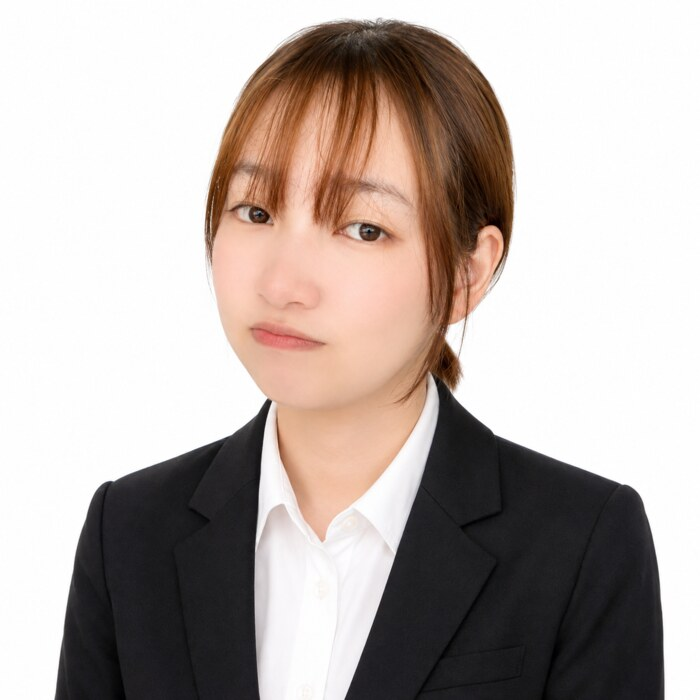
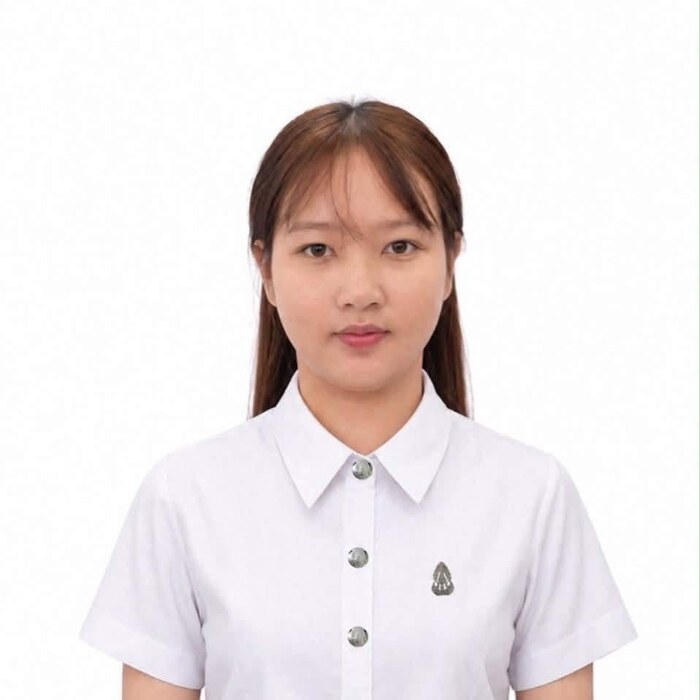
Add n8n project, project galleries, and new profile photo

diff --git a/index.html b/index.html
@@ -34,6 +34,7 @@
           <li><strong>Web Development:</strong> HTML, CSS, JavaScript, Django, REST API concepts, responsive interfaces</li>
           <li><strong>Systems / DevOps:</strong> Linux, Ubuntu, Docker, Docker Compose, Git, GitHub</li>
           <li><strong>IoT / Embedded Systems:</strong> Raspberry Pi, ESP32, ESP-IDF, GPIO, RS-485 sensors, CMake</li>
+          <li><strong>Automation / AI:</strong> n8n, OpenAI, Google Gemini, AI Agents, Webhooks, REST APIs</li>
           <li><strong>Other:</strong> Computer Networks, Troubleshooting and Technical Documentation</li>
           <li><strong>Areas of Interest:</strong> Python Development, Backend Engineering, Embedded Systems and IoT</li>
         </ul>
@@ -50,6 +51,7 @@
             <li>Produced detailed technical documentation with setup steps, code examples, and hardware test results.</li>
             <li>Used Git and GitHub to manage source code and maintain project history.</li>
             <li>Practiced web development, object-oriented programming, Linux, and computer networking.</li>
+            <li>Designed AI-assisted n8n workflows for social-commerce video production and publishing preparation.</li>
           </ul>
         </article>
 
@@ -57,7 +59,9 @@
 
       <section id="projects">
         <h2>Projects</h2>
-        <article><h3>Network-Enabled Temperature Monitoring System</h3><p class="badges"><a href="https://github.com/AnchisaPhetnoi/Temperature_Monitoring_Syste" target="_blank" rel="noreferrer"><img src="https://img.shields.io/badge/View_on_GitHub-blue?style=flat&amp;logo=github&amp;labelColor=grey" alt="View Temperature Monitoring System on GitHub"></a></p><p>An undergraduate thesis project for monitoring temperature through a network. The repository provides the project report, certificate, summary document, and system screenshots.</p><h4>Key Features</h4><ul><li>Designed for network-based temperature monitoring and remote visibility.</li><li>Includes complete supporting documentation and visual evidence of the system.</li><li>Connects embedded hardware, sensing, networking, and a monitoring interface.</li></ul><p><strong>Tools / Technologies:</strong> Embedded Systems, Temperature Sensors, Networking, Monitoring Dashboard</p></article>
+        <article><h3>AI Social Commerce Automation with n8n</h3><p class="badges"><a href="https://github.com/AnchisaPhetnoi/AnchisaPhetnoi.github.io/tree/main/n8n-social-commerce-automation" target="_blank" rel="noreferrer"><img src="https://img.shields.io/badge/View_Project_Files-blue?style=flat&amp;logo=github&amp;labelColor=grey" alt="View n8n automation project files on GitHub"></a></p><p>Designed an AI-assisted automation pipeline for social-commerce video production, combining Shopee product inputs, TikTok shopping content, image analysis, sales-script and prompt generation, asynchronous media APIs, and publishing preparation. The workflow can also support vertical AI storytelling formats such as short Chinese-style series.</p><ul><li>Built two n8n workflows with 92 nodes for scheduled and webhook-driven automation.</li><li>Integrated OpenAI, Google Gemini, REST APIs, JavaScript processing, and structured AI outputs.</li><li>Tracked multi-stage image and video jobs with Data Tables, status checks, waits, and conditional routing.</li><li>Published sanitized workflow copies without credentials or authentication data.</li></ul><p><strong>Tools / Technologies:</strong> n8n, OpenAI, Google Gemini, REST API, Webhooks, JavaScript, AI Agents, Social Commerce Automation</p></article>
+
+        <article><h3>Network-Enabled Temperature Monitoring System</h3><p class="badges"><a href="https://github.com/AnchisaPhetnoi/Temperature_Monitoring_Syste" target="_blank" rel="noreferrer"><img src="https://img.shields.io/badge/View_on_GitHub-blue?style=flat&amp;logo=github&amp;labelColor=grey" alt="View Temperature Monitoring System on GitHub"></a></p><p>An undergraduate thesis project for monitoring temperature through a network. The repository provides the project report, certificate, summary document, and system screenshots.</p><div class="project-gallery"><a href="https://raw.githubusercontent.com/AnchisaPhetnoi/Temperature_Monitoring_Syste/main/Screenshot%202026-09-02%20184132.png" target="_blank" rel="noreferrer"><img src="https://raw.githubusercontent.com/AnchisaPhetnoi/Temperature_Monitoring_Syste/main/Screenshot%202026-09-02%20184132.png" alt="Temperature monitoring system interface" loading="lazy"></a><a href="https://raw.githubusercontent.com/AnchisaPhetnoi/Temperature_Monitoring_Syste/main/Screenshot%202026-09-02%20185236.png" target="_blank" rel="noreferrer"><img src="https://raw.githubusercontent.com/AnchisaPhetnoi/Temperature_Monitoring_Syste/main/Screenshot%202026-09-02%20185236.png" alt="Temperature monitoring project results" loading="lazy"></a></div><h4>Key Features</h4><ul><li>Designed for network-based temperature monitoring and remote visibility.</li><li>Includes complete supporting documentation and visual evidence of the system.</li><li>Connects embedded hardware, sensing, networking, and a monitoring interface.</li></ul><p><strong>Tools / Technologies:</strong> Embedded Systems, Temperature Sensors, Networking, Monitoring Dashboard</p></article>
 
         <article><h3>Smart Pump and Temperature Dashboard</h3><p class="badges"><a href="https://github.com/AnchisaPhetnoi/Projat" target="_blank" rel="noreferrer"><img src="https://img.shields.io/badge/View_on_GitHub-blue?style=flat&amp;logo=github&amp;labelColor=grey" alt="View Smart Pump project on GitHub"></a></p><p>An IoT prototype combining temperature sensing, MQTT communication, a pump-control relay, and a browser dashboard.</p><ul><li>Reads temperature through a DS18B20 sensor and publishes readings through MQTT.</li><li>Controls a relay-driven pump according to a temperature threshold.</li><li>Displays current temperature, a Chart.js history graph, data table, and pump control.</li></ul><p><strong>Tools / Technologies:</strong> ESP8266, Arduino C++, DS18B20, MQTT, NETPIE, HTML, Bootstrap, JavaScript, Chart.js</p></article>
 
@@ -67,11 +71,11 @@
 
         <article><h3>ESP32 Button Counter Cookbook</h3><p class="badges"><a href="https://github.com/AnchisaPhetnoi/ESP32-project-from-scrash-Cookbook" target="_blank" rel="noreferrer"><img src="https://img.shields.io/badge/View_on_GitHub-blue?style=flat&amp;logo=github&amp;labelColor=grey" alt="View ESP32 cookbook on GitHub"></a></p><p>A documented ESP32 modification project demonstrating LED state control and push-button press counting.</p><ul><li>Modified GPIO logic to toggle an LED with a controlled delay.</li><li>Implemented a counter that reports the total number of button presses.</li><li>Built and tested the project on an ESP32 board with screenshots and a demonstration video.</li></ul><p><strong>Tools / Technologies:</strong> ESP32, ESP-IDF, C, GPIO, FreeRTOS, CMake</p></article>
 
-        <article><h3>Mathematics Learning Website</h3><p class="badges"><a href="https://github.com/AnchisaPhetnoi/Make-a-website" target="_blank" rel="noreferrer"><img src="https://img.shields.io/badge/View_on_GitHub-blue?style=flat&amp;logo=github&amp;labelColor=grey" alt="View mathematics website on GitHub"></a></p><p>A multi-page educational website presenting mathematics content and learning topics in Thai.</p><ul><li>Includes probability, real numbers and polynomials, complex numbers, logic, and financial mathematics.</li><li>Separates HTML, CSS, JavaScript, and image assets into an organized web structure.</li><li>Uses browser content to support self-paced learning.</li></ul><p><strong>Tools / Technologies:</strong> HTML, CSS, JavaScript, Web Design, Educational Content</p></article>
+        <article><h3>Mathematics Learning Website</h3><p class="badges"><a href="https://github.com/AnchisaPhetnoi/Make-a-website" target="_blank" rel="noreferrer"><img src="https://img.shields.io/badge/View_on_GitHub-blue?style=flat&amp;logo=github&amp;labelColor=grey" alt="View mathematics website on GitHub"></a></p><p>A multi-page educational website presenting mathematics content and learning topics in Thai.</p><div class="project-gallery"><a href="https://raw.githubusercontent.com/AnchisaPhetnoi/Make-a-website/main/img/Group%2012.jpg" target="_blank" rel="noreferrer"><img src="https://raw.githubusercontent.com/AnchisaPhetnoi/Make-a-website/main/img/Group%2012.jpg" alt="Mathematics learning website screen" loading="lazy"></a><a href="https://raw.githubusercontent.com/AnchisaPhetnoi/Make-a-website/main/img/%E0%B8%A0%E0%B8%B2%E0%B8%9E%202.jpg" target="_blank" rel="noreferrer"><img src="https://raw.githubusercontent.com/AnchisaPhetnoi/Make-a-website/main/img/%E0%B8%A0%E0%B8%B2%E0%B8%9E%202.jpg" alt="Mathematics website learning content" loading="lazy"></a></div><ul><li>Includes probability, real numbers and polynomials, complex numbers, logic, and financial mathematics.</li><li>Separates HTML, CSS, JavaScript, and image assets into an organized web structure.</li><li>Uses browser content to support self-paced learning.</li></ul><p><strong>Tools / Technologies:</strong> HTML, CSS, JavaScript, Web Design, Educational Content</p></article>
 
         <article><h3>C# Software and Automated Testing Project</h3><p class="badges"><a href="https://github.com/AnchisaPhetnoi/Project_65030289" target="_blank" rel="noreferrer"><img src="https://img.shields.io/badge/View_on_GitHub-blue?style=flat&amp;logo=github&amp;labelColor=grey" alt="View C sharp project on GitHub"></a></p><p>A .NET solution containing application source code, a separate test project, workflow configuration, and documented output.</p><ul><li>Structures source and test code as separate projects within a Visual Studio solution.</li><li>Applies C# classes and console-program logic.</li><li>Records development and testing results with repository documentation.</li></ul><p><strong>Tools / Technologies:</strong> C#, .NET, Visual Studio, Automated Testing, GitHub Actions</p></article>
 
-        <article><h3>Personal Portfolio Website</h3><p class="badges"><a href="https://github.com/AnchisaPhetnoi/Personal-Website-Project" target="_blank" rel="noreferrer"><img src="https://img.shields.io/badge/View_on_GitHub-blue?style=flat&amp;logo=github&amp;labelColor=grey" alt="View personal website repository on GitHub"></a> <a href="https://anchisaphetnoi.github.io/Personal-Website-Project/about.html" target="_blank" rel="noreferrer"><img src="https://img.shields.io/badge/Open_Live_Website-brightgreen?style=flat&amp;logo=googlechrome&amp;labelColor=grey" alt="Open live personal website"></a></p><p>A responsive personal website presenting an introduction, education, portfolio items, certificates, and contact sections.</p><ul><li>Built a multi-section personal profile in Thai and English.</li><li>Created responsive navigation and portfolio layouts.</li><li>Published the finished site through GitHub Pages.</li></ul><p><strong>Tools / Technologies:</strong> HTML, CSS, JavaScript, jQuery, Font Awesome, GitHub Pages</p></article>
+        <article><h3>Personal Portfolio Website</h3><p class="badges"><a href="https://github.com/AnchisaPhetnoi/Personal-Website-Project" target="_blank" rel="noreferrer"><img src="https://img.shields.io/badge/View_on_GitHub-blue?style=flat&amp;logo=github&amp;labelColor=grey" alt="View personal website repository on GitHub"></a> <a href="https://anchisaphetnoi.github.io/Personal-Website-Project/about.html" target="_blank" rel="noreferrer"><img src="https://img.shields.io/badge/Open_Live_Website-brightgreen?style=flat&amp;logo=googlechrome&amp;labelColor=grey" alt="Open live personal website"></a></p><p>A responsive personal website presenting an introduction, education, portfolio items, certificates, and contact sections.</p><div class="project-gallery"><a href="https://raw.githubusercontent.com/AnchisaPhetnoi/Personal-Website-Project/main/images/%E0%B8%AD%E0%B8%B8%E0%B8%9B%E0%B8%81%E0%B8%A3%E0%B8%93%E0%B9%8C%E0%B8%A3%E0%B8%B0%E0%B8%9A%E0%B8%9A%E0%B8%A7%E0%B8%B1%E0%B8%94%E0%B8%AD%E0%B8%B8%E0%B8%93%E0%B8%AB%E0%B8%A0%E0%B8%B9%E0%B8%A1%E0%B8%B4%E0%B8%9C%E0%B9%88%E0%B8%B2%E0%B8%99%E0%B9%80%E0%B8%84%E0%B8%A3%E0%B8%B7%E0%B8%AD%E0%B8%82%E0%B9%88%E0%B8%B2%E0%B8%A2.png" target="_blank" rel="noreferrer"><img src="https://raw.githubusercontent.com/AnchisaPhetnoi/Personal-Website-Project/main/images/%E0%B8%AD%E0%B8%B8%E0%B8%9B%E0%B8%81%E0%B8%A3%E0%B8%93%E0%B9%8C%E0%B8%A3%E0%B8%B0%E0%B8%9A%E0%B8%9A%E0%B8%A7%E0%B8%B1%E0%B8%94%E0%B8%AD%E0%B8%B8%E0%B8%93%E0%B8%AB%E0%B8%A0%E0%B8%B9%E0%B8%A1%E0%B8%B4%E0%B8%9C%E0%B9%88%E0%B8%B2%E0%B8%99%E0%B9%80%E0%B8%84%E0%B8%A3%E0%B8%B7%E0%B8%AD%E0%B8%82%E0%B9%88%E0%B8%B2%E0%B8%A2.png" alt="Network temperature monitoring equipment" loading="lazy"></a><a href="https://raw.githubusercontent.com/AnchisaPhetnoi/Personal-Website-Project/main/images/%E0%B9%81%E0%B8%94%E0%B8%8A%E0%B8%9A%E0%B8%AD%E0%B8%A3%E0%B9%8C%E0%B8%94%E0%B8%A7%E0%B8%B1%E0%B8%94%E0%B8%AD%E0%B8%B8%E0%B8%93%E0%B8%AB%E0%B8%A0%E0%B8%B9%E0%B8%A1%E0%B8%B4%E0%B8%9C%E0%B9%88%E0%B8%B2%E0%B8%99%E0%B9%80%E0%B8%84%E0%B8%A3%E0%B8%B7%E0%B8%AD%E0%B8%82%E0%B9%88%E0%B8%B2%E0%B8%A2.png" target="_blank" rel="noreferrer"><img src="https://raw.githubusercontent.com/AnchisaPhetnoi/Personal-Website-Project/main/images/%E0%B9%81%E0%B8%94%E0%B8%8A%E0%B8%9A%E0%B8%AD%E0%B8%A3%E0%B9%8C%E0%B8%94%E0%B8%A7%E0%B8%B1%E0%B8%94%E0%B8%AD%E0%B8%B8%E0%B8%93%E0%B8%AB%E0%B8%A0%E0%B8%B9%E0%B8%A1%E0%B8%B4%E0%B8%9C%E0%B9%88%E0%B8%B2%E0%B8%99%E0%B9%80%E0%B8%84%E0%B8%A3%E0%B8%B7%E0%B8%AD%E0%B8%82%E0%B9%88%E0%B8%B2%E0%B8%A2.png" alt="Network temperature monitoring dashboard" loading="lazy"></a></div><ul><li>Built a multi-section personal profile in Thai and English.</li><li>Created responsive navigation and portfolio layouts.</li><li>Published the finished site through GitHub Pages.</li></ul><p><strong>Tools / Technologies:</strong> HTML, CSS, JavaScript, jQuery, Font Awesome, GitHub Pages</p></article>
 
       </section>
 

diff --git a/styles.css b/styles.css
@@ -1,4 +1,4 @@
 :root{--blue:#267cb9;--text:#727272;--dark:#222;--rule:#e5e5e5}
-*{box-sizing:border-box}html{scroll-behavior:smooth}body{margin:0;background:#fff;color:var(--text);font:15px/1.55 "Open Sans",Arial,sans-serif}.layout{width:min(calc(100% - 48px),860px);margin:auto;display:grid;grid-template-columns:270px minmax(0,1fr);gap:90px}.sidebar-inner{position:static;padding-top:50px;text-align:center}.sidebar h1{color:var(--blue);font-size:29px;line-height:1.15;letter-spacing:-.5px;margin:0 0 22px}.portrait{display:block;width:245px;height:245px;object-fit:cover;border-radius:50%;margin:0 auto 25px;padding:7px;border:4px dashed #e5e5e5}.profile-links{white-space:nowrap;margin-bottom:25px}.profile-links span{padding:0 7px;color:#aaa}a{color:var(--blue);text-decoration:none}a:hover{text-decoration:underline}.intro,.email{text-align:justify;margin:0 0 22px}.email{overflow-wrap:anywhere}main{padding:50px 0 38px;min-width:0}section{padding-bottom:4px}h2{font-size:28px;line-height:1.2;color:var(--dark);margin:0 0 20px;padding-bottom:18px;border-bottom:1px solid var(--rule)}h3{font-size:20px;line-height:1.35;color:#444;margin:21px 0 12px}h4{font-size:15px;color:#666;margin:21px 0 8px}p{margin:0 0 14px}ul{padding-left:25px;margin:0 0 22px}li{margin:2px 0}strong{font-weight:700;color:#666}article{border-bottom:1px solid var(--rule);padding-bottom:17px;margin-bottom:21px}article:last-child{border-bottom:0}code{font-family:Consolas,monospace;background:#f3f3f3;padding:1px 4px;border-radius:3px}.badges{display:flex;align-items:center;gap:6px;flex-wrap:wrap}.badges a{display:inline-block;line-height:1}.badges a:hover{text-decoration:none}.badges img{display:block;height:20px;max-width:100%}footer{border-top:1px solid var(--rule);margin-top:30px;padding-top:20px;color:#999;font-size:12px}
+*{box-sizing:border-box}html{scroll-behavior:smooth}body{margin:0;background:#fff;color:var(--text);font:15px/1.55 "Open Sans",Arial,sans-serif}.layout{width:min(calc(100% - 48px),860px);margin:auto;display:grid;grid-template-columns:270px minmax(0,1fr);gap:90px}.sidebar-inner{position:static;padding-top:50px;text-align:center}.sidebar h1{color:var(--blue);font-size:29px;line-height:1.15;letter-spacing:-.5px;margin:0 0 22px}.portrait{display:block;width:245px;height:245px;object-fit:cover;border-radius:50%;margin:0 auto 25px;padding:7px;border:4px dashed #e5e5e5}.profile-links{white-space:nowrap;margin-bottom:25px}.profile-links span{padding:0 7px;color:#aaa}a{color:var(--blue);text-decoration:none}a:hover{text-decoration:underline}.intro,.email{text-align:justify;margin:0 0 22px}.email{overflow-wrap:anywhere}main{padding:50px 0 38px;min-width:0}section{padding-bottom:4px}h2{font-size:28px;line-height:1.2;color:var(--dark);margin:0 0 20px;padding-bottom:18px;border-bottom:1px solid var(--rule)}h3{font-size:20px;line-height:1.35;color:#444;margin:21px 0 12px}h4{font-size:15px;color:#666;margin:21px 0 8px}p{margin:0 0 14px}ul{padding-left:25px;margin:0 0 22px}li{margin:2px 0}strong{font-weight:700;color:#666}article{border-bottom:1px solid var(--rule);padding-bottom:17px;margin-bottom:21px}article:last-child{border-bottom:0}code{font-family:Consolas,monospace;background:#f3f3f3;padding:1px 4px;border-radius:3px}.badges{display:flex;align-items:center;gap:6px;flex-wrap:wrap}.badges a{display:inline-block;line-height:1}.badges a:hover{text-decoration:none}.badges img{display:block;height:20px;max-width:100%}.project-gallery{display:grid;grid-template-columns:repeat(2,minmax(0,1fr));gap:10px;margin:12px 0 18px}.project-gallery a{display:block;overflow:hidden;border:1px solid var(--rule);border-radius:7px;background:#f7f7f7}.project-gallery img{display:block;width:100%;height:155px;object-fit:cover;transition:transform .2s ease}.project-gallery a:hover img{transform:scale(1.025)}footer{border-top:1px solid var(--rule);margin-top:30px;padding-top:20px;color:#999;font-size:12px}
 .pending-link{color:#999;cursor:default}@media(max-width:760px){.layout{width:min(calc(100% - 36px),620px);display:block}.sidebar-inner{position:static;padding-top:42px}.sidebar h1 br{display:none}.portrait{width:220px;height:220px}.intro,.email{max-width:450px;margin-left:auto;margin-right:auto}main{padding-top:50px}h2{font-size:26px}}
-@media(max-width:420px){.layout{width:calc(100% - 30px)}.portrait{width:190px;height:190px}.intro,.email{text-align:left}.profile-links{font-size:14px}main{padding-top:38px}h2{font-size:24px}h3{font-size:18px}}
+@media(max-width:560px){.project-gallery{grid-template-columns:1fr}.project-gallery img{height:auto;max-height:260px}}@media(max-width:420px){.layout{width:calc(100% - 30px)}.portrait{width:190px;height:190px}.intro,.email{text-align:left}.profile-links{font-size:14px}main{padding-top:38px}h2{font-size:24px}h3{font-size:18px}}
